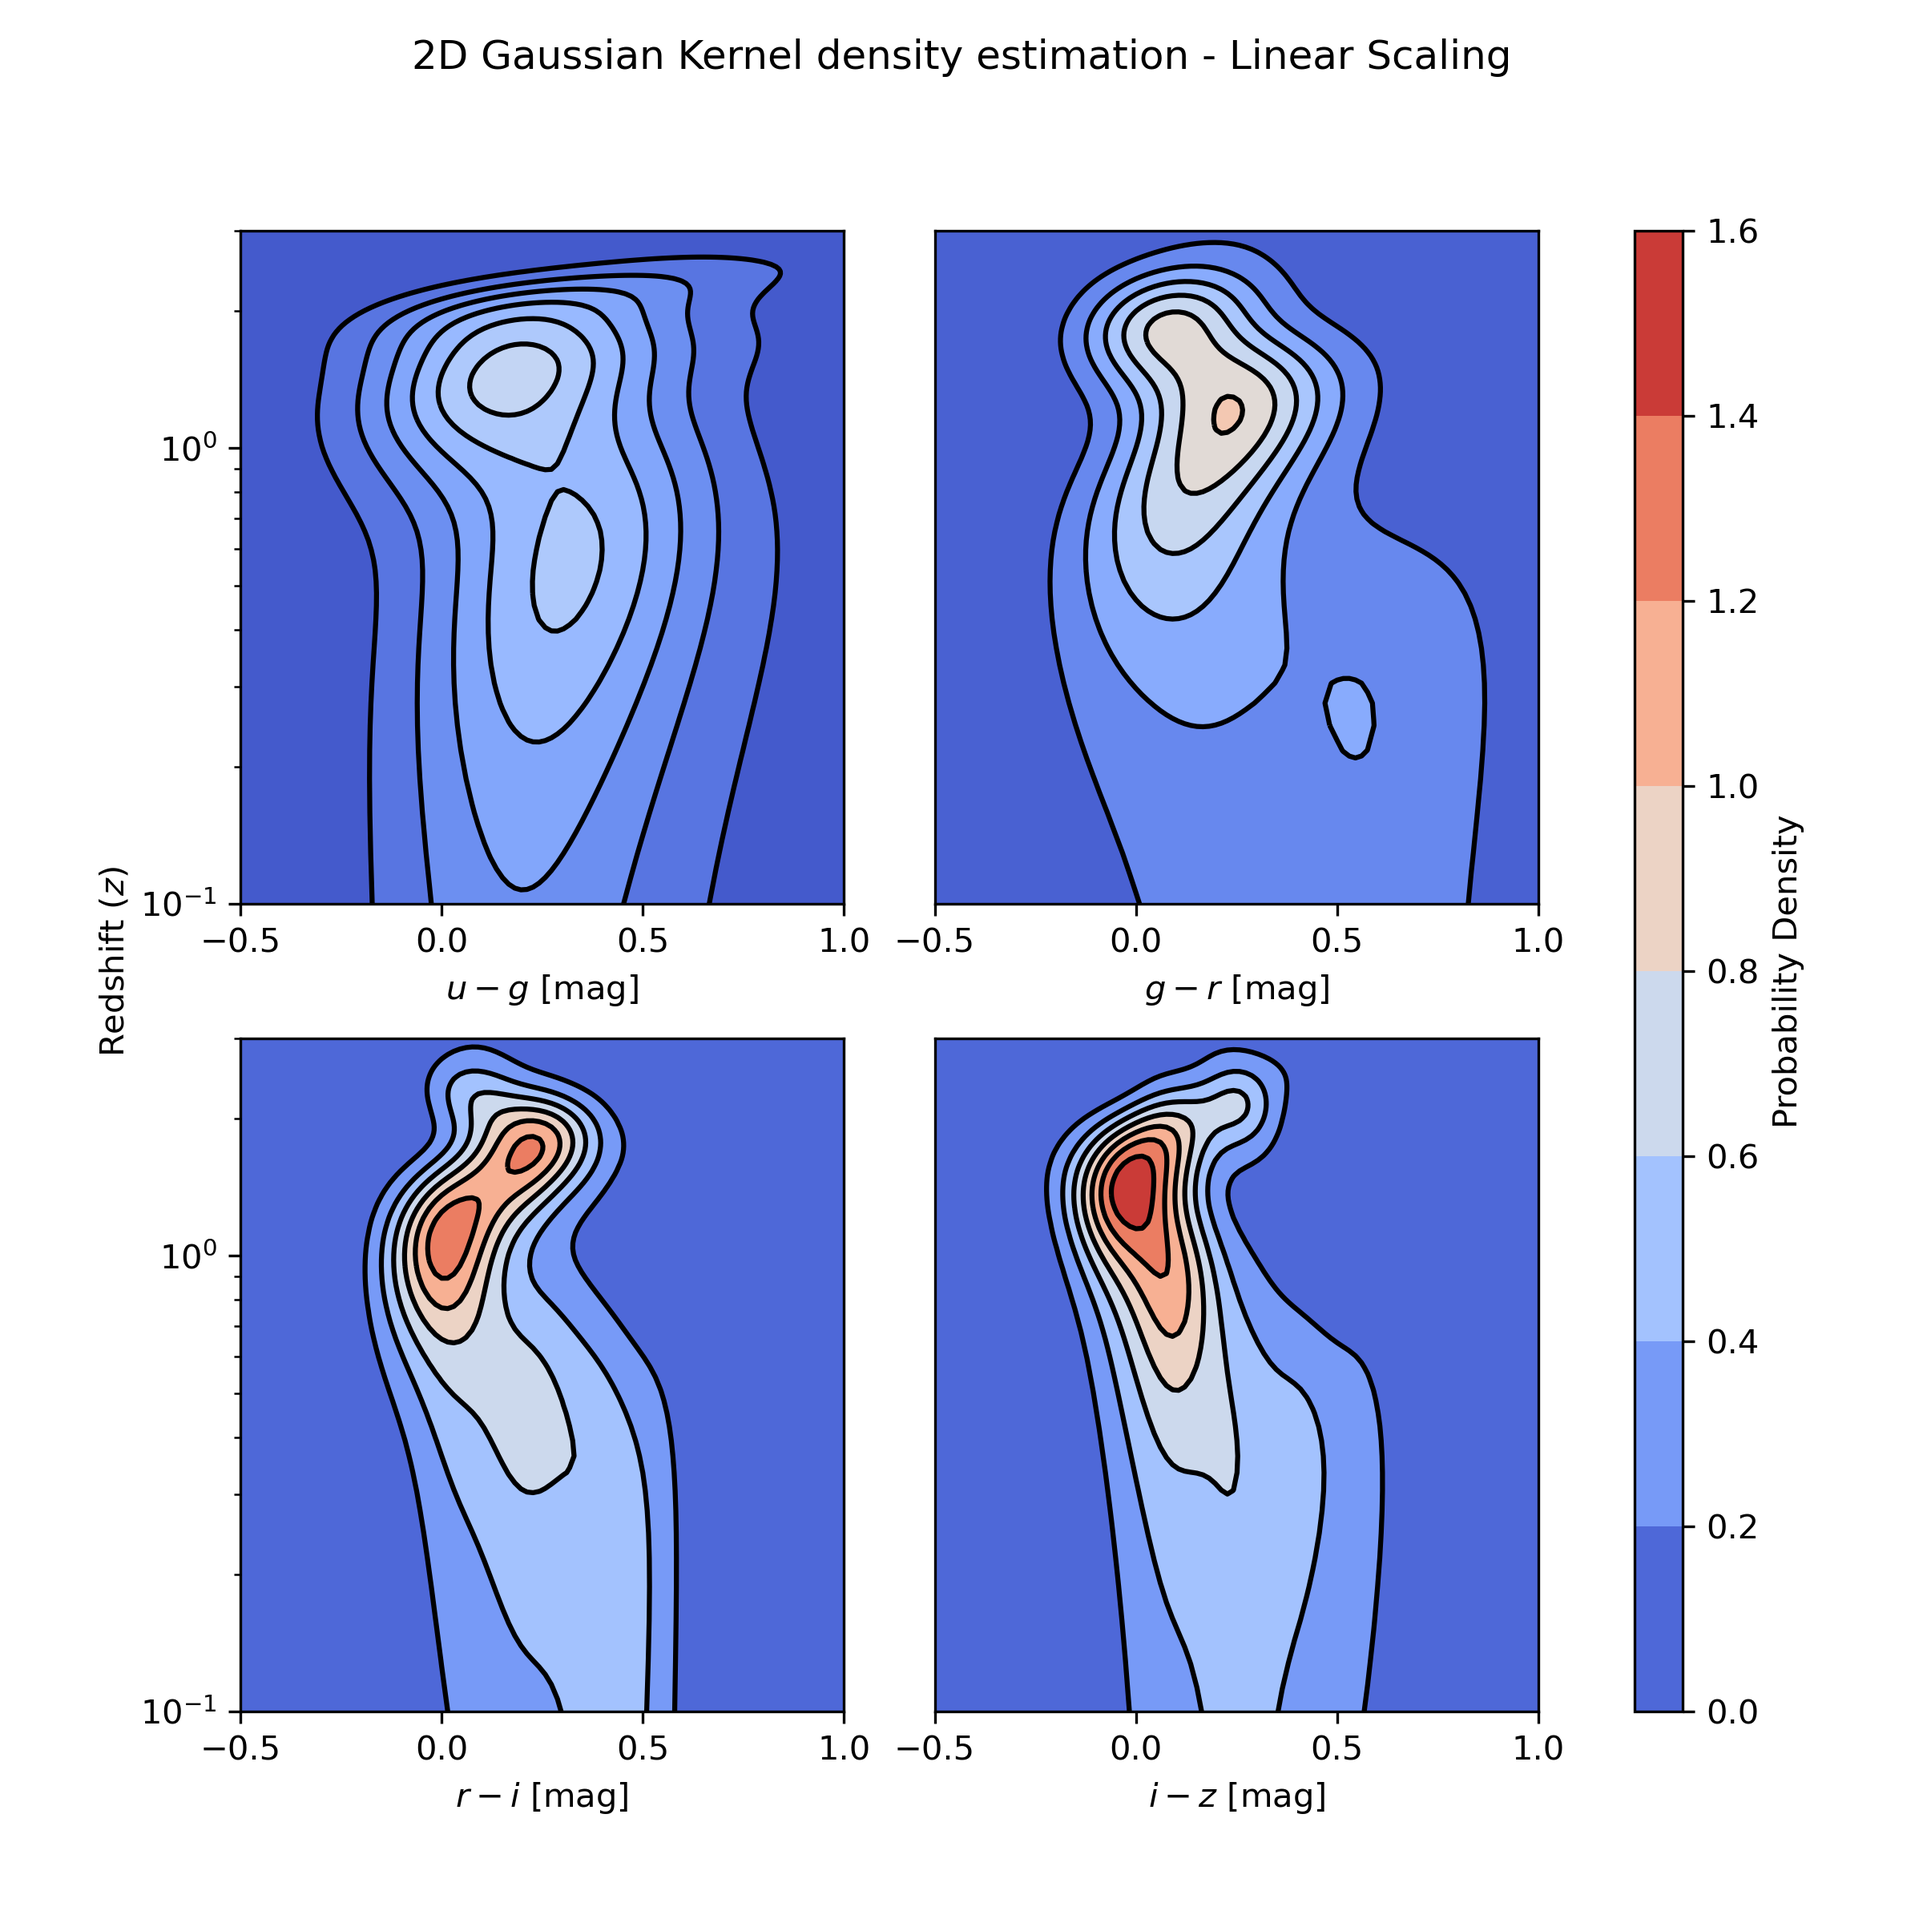
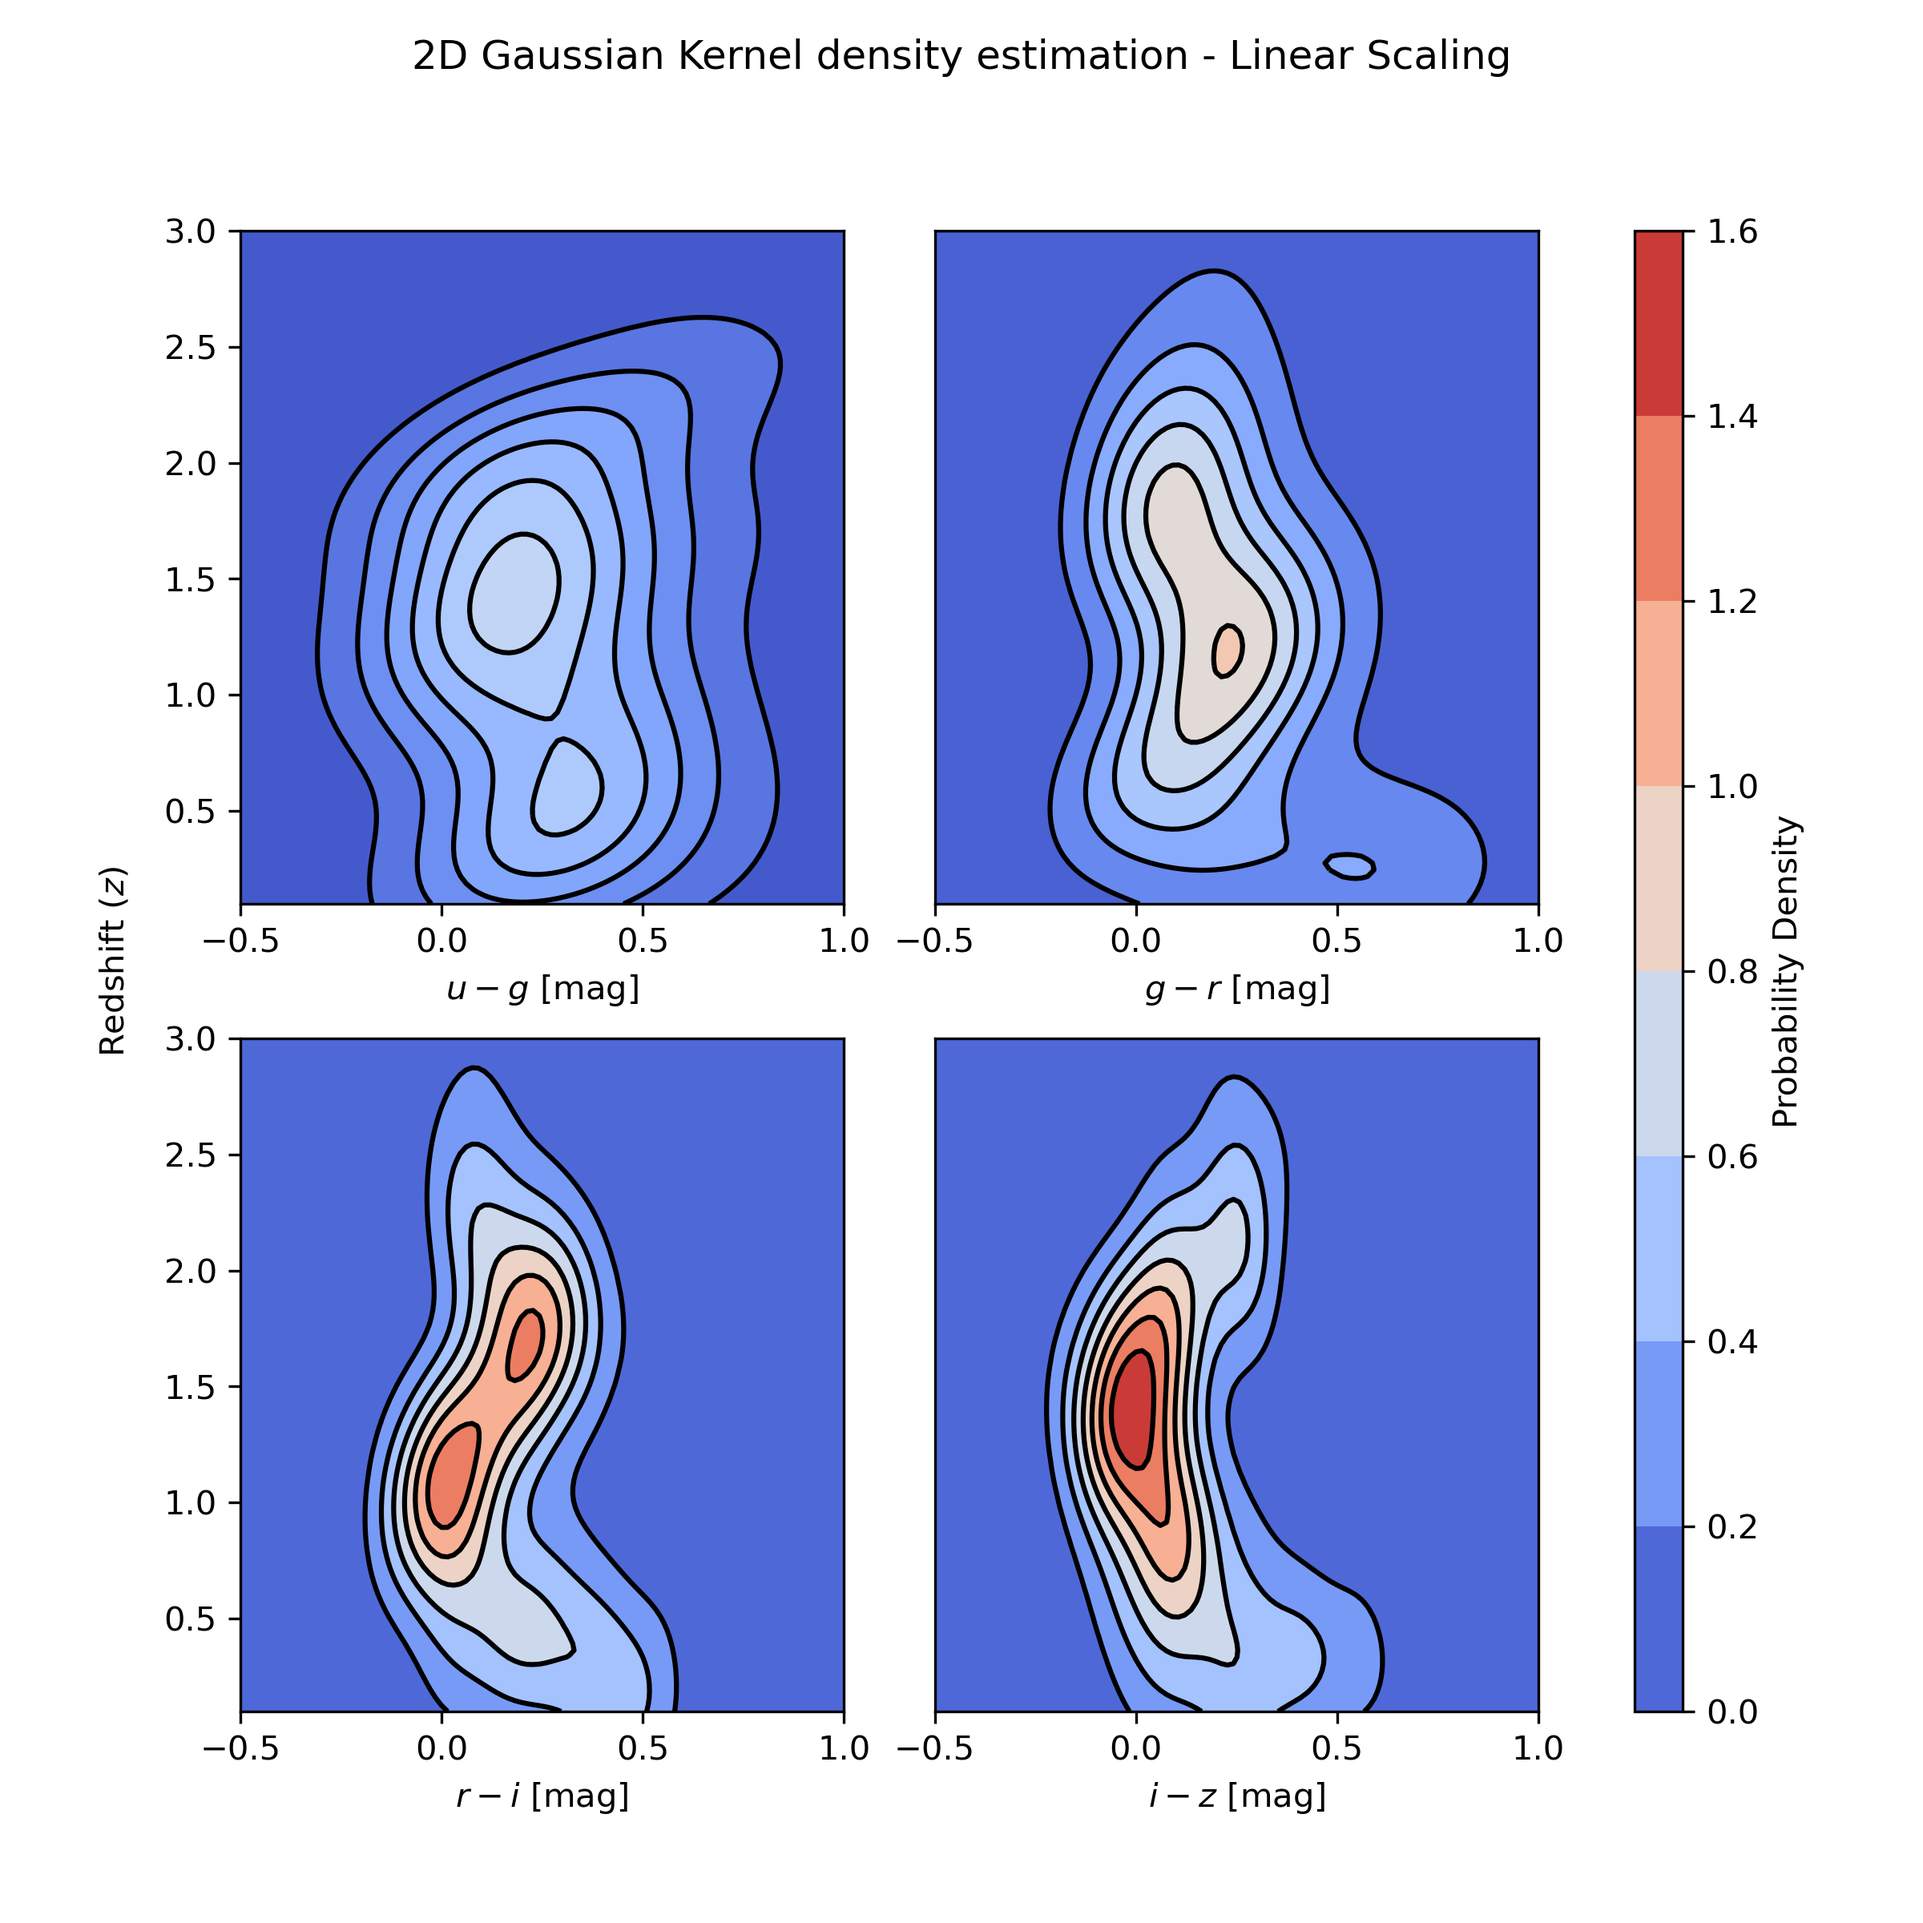
adjusted log scaling and axes

diff --git a/sdss_exercise_3-5/sdss_ex3-5.py b/sdss_exercise_3-5/sdss_ex3-5.py
@@ -21,8 +21,8 @@ plt.style.use('ggplot')
 x_data = np.array(['ug', 'gr', 'ri', 'iz'], dtype=str).reshape((2, 2))
 fig, axes = plt.subplots(ncols=2, nrows=2, figsize=(8, 8), sharey=True)
 for i, j in itertools.product(range(2), range(2)):
-    data.plot(x=x_data[i, j], y='z', kind='scatter', ax=axes[i, j], logy=True, xlabel='$%s$ [mag]' % (x_data[i, j][0] + ' - ' + x_data[i, j][1]),
-              ylabel='Redshift')
+    data.plot(x=x_data[i, j], y='z', kind='scatter', ax=axes[i, j], xlabel='$%s$ [mag]' % (x_data[i, j][0] + ' - ' + x_data[i, j][1]),
+              ylabel='Redshift', xlim=(-0.5, 5))
 fig.suptitle('Quasar Color-Redshift Diagrams')
 plt.savefig('quasar-color-redshift.png', dpi=300)
 plt.close()
@@ -63,7 +63,7 @@ def make_density_plot(norm, label: str = None, **kwargs):
             ymin = ylim[0]
             ymax = ylim[1]
         axes[i, j].set_ylim(ymin, ymax)
-        axes[i, j].set_yscale('log')
+        # axes[i, j].set_yscale('log')
 
         # Create meshgrid
         xx, yy = np.mgrid[xmin:xmax:100j, ymin:ymax:100j]
